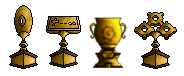
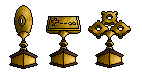
Finished the functionality of the Trophy screen

diff --git a/JointProject_TeamE/JointProject_TeamE/Screens/TrophyScreen.cpp b/JointProject_TeamE/JointProject_TeamE/Screens/TrophyScreen.cpp
@@ -1,10 +1,26 @@
 #include "TrophyScreen.h"
 
+/// <summary>
+/// Initalises the trophy display
+/// </summary>
 TrophyScreen::TrophyScreen() 
 	: Screen(GameState::TrophyScreen)
 {
-	m_trophiesTexture = g_resourceMgr.textureHolder["Trophies"];
-	m_trophiesSprite.setTexture(m_trophiesTexture);
+	m_trophyTexture = g_resourceMgr.textureHolder["Trophies"];
+
+	m_trophyNames[0] = "Circuit de Monaco";
+	m_trophyNames[1] = "Circuit Zolder";
+	m_trophyNames[2] = "Circuito de Monsanto";
+
+	for (int i = 0; i < 3; i++)
+	{
+		m_trophyUnlocked[i] = true;
+		m_trophySprite[i].setTexture(m_trophyTexture);
+		m_trophySprite[i].setTextureRect(sf::IntRect(i * 45, 0, 40, 76));
+		m_trophyPosition[i] = sf::Vector2f(200.0f * (i + 1), 300.0f);
+		m_trophySprite[i].setPosition(m_trophyPosition[i]);
+		m_trophySprite[i].setOrigin(m_trophySprite[i].getLocalBounds().width / 2, m_trophySprite[i].getLocalBounds().height / 2);
+	}
 
 	m_transitionIn = true;
 
@@ -19,16 +35,28 @@ TrophyScreen::TrophyScreen()
 	m_backButton = new Button(focusColor, nofocusColor, fillColor, "Back", nullptr, sf::Vector2f(900.0f, 500.0f),
 		18, 100.0f, 40.0f, sf::Vector2f(400.0f, 500.0f), endTranstionPos);
 
+	for (int i = 0; i < 3; i++)
+	{
+		m_trophyTitle[i] = new Label("???", nullptr, 18.0f, m_trophyPosition[i] + sf::Vector2f(20.0f, 50.0f), endTranstionPos);
+		m_trophyTitle[i]->setPosition(m_trophyPosition[i] + sf::Vector2f(20.0f, 50.0f));
+	}
+
 	m_backButton->select = std::bind(&TrophyScreen::backButtonCallback, this);
 
 	m_backButton->promoteFocus();
 
 	m_gui.add(m_titleLabel);
 	m_gui.add(m_backButton);
+	for (int i = 0; i < 3; i++)
+		m_gui.add(m_trophyTitle[i]);
 }
 
 TrophyScreen::~TrophyScreen() { }
 
+/// <summary>
+/// Updates the gui and process input
+/// </summary>
+/// <param name="controller">A refernce to a controller object</param>
 void TrophyScreen::update(XboxController & controller)
 {
 	if (m_transitionIn)
@@ -47,16 +75,33 @@ void TrophyScreen::update(XboxController & controller)
 	m_gui.processInput(controller);
 }
 
+/// <summary>
+/// Renders the gui and trophies
+/// </summary>
+/// <param name="window"></param>
 void TrophyScreen::render(sf::RenderWindow &window)
 {
 	window.draw(m_gui);
 
-	m_position = sf::Vector2f(400.0f, 400.0f);
-	m_trophiesSprite.setPosition(m_position);
-	m_trophiesSprite.setTextureRect(sf::IntRect(0, 0, 145, 76));
-	window.draw(m_trophiesSprite);
+	for (int i = 0; i < 3; i++)
+	{
+		std::string name;
+		m_trophyUnlocked[i] ? name = m_trophyNames[i] : name = "???";
+		m_trophyTitle[i]->setText(name);
+
+		if(m_trophyUnlocked[i])
+			window.draw(m_trophySprite[i]);
+		else
+		{
+			m_trophySprite[i].setColor(sf::Color::Red);
+			window.draw(m_trophySprite[i]);
+		}
+	}
 }
 
+/// <summary>
+/// Resets the screen
+/// </summary>
 void TrophyScreen::reset()
 {
 	m_backButtonSelected = false;
@@ -64,6 +109,24 @@ void TrophyScreen::reset()
 	m_transitionIn = true;
 }
 
+/// <summary>
+/// Method to set a trophy to be unlocked
+/// </summary>
+/// <param name="trophyIndex">The trophy index</param>
+void TrophyScreen::unlockTrophy(int trophyIndex)
+{
+	if (trophyIndex < 0 || trophyIndex >= 3)
+	{
+		std::cout << "TrophyScreen:: Trophy Index is out of bounds" << std::endl;
+		return;
+	}
+
+	m_trophyUnlocked[trophyIndex] = true;
+}
+
+/// <summary>
+/// Callback for the back button being pressed
+/// </summary>
 void TrophyScreen::backButtonCallback()
 {
 	m_backButtonSelected = true;

diff --git a/JointProject_TeamE/JointProject_TeamE/Screens/TrophyScreen.h b/JointProject_TeamE/JointProject_TeamE/Screens/TrophyScreen.h
@@ -8,6 +8,10 @@
 
 #include "Screen.h"
 
+/// Displays the trophys on screen
+/// 
+/// Displays the trophys on screen, updates and renders the trophy screen.
+/// Provides a method to set unlocked trophies.
 class TrophyScreen : public Screen
 {
 public:
@@ -17,16 +21,19 @@ public:
 	void update(XboxController & controller) override;
 	void render(sf::RenderWindow &window) override;
 	void reset() override;
+	void unlockTrophy(int trophyIndex);
 
 private:
 	void backButtonCallback();
 
 	Label *m_titleLabel;
 	Button *m_backButton;
+	Label *m_trophyTitle[3];
+	std::string m_trophyNames[3];
 
-	sf::Texture m_trophiesTexture;
-	sf::Sprite m_trophiesSprite;
-	sf::Vector2f m_position;
+	sf::Texture m_trophyTexture;
+	sf::Sprite m_trophySprite[3];
+	sf::Vector2f m_trophyPosition[3];
 	bool m_trophyUnlocked[3];
 
 	bool m_backButtonSelected;
